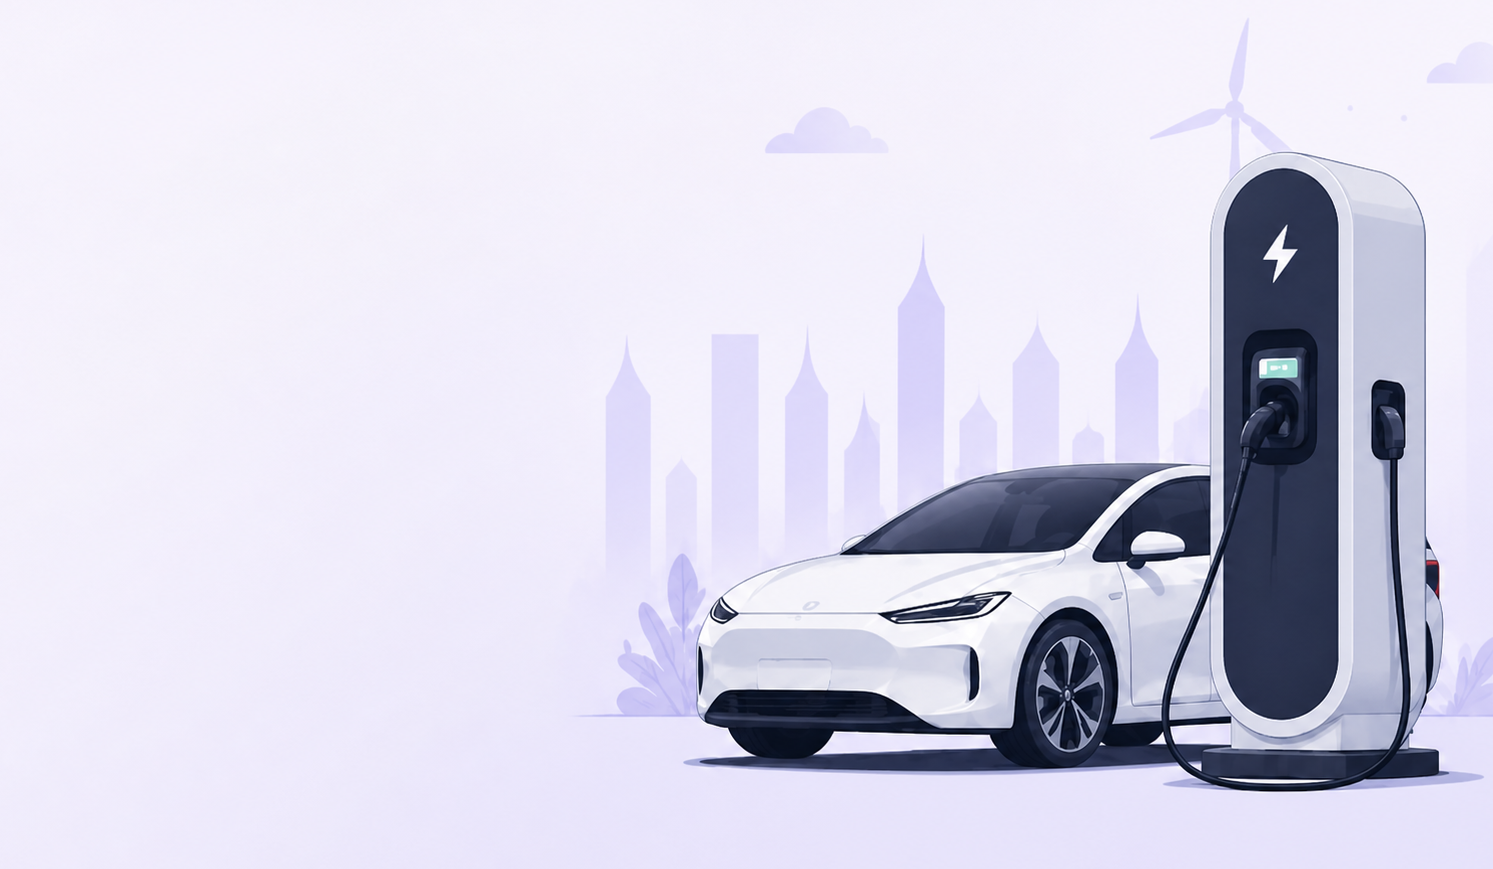
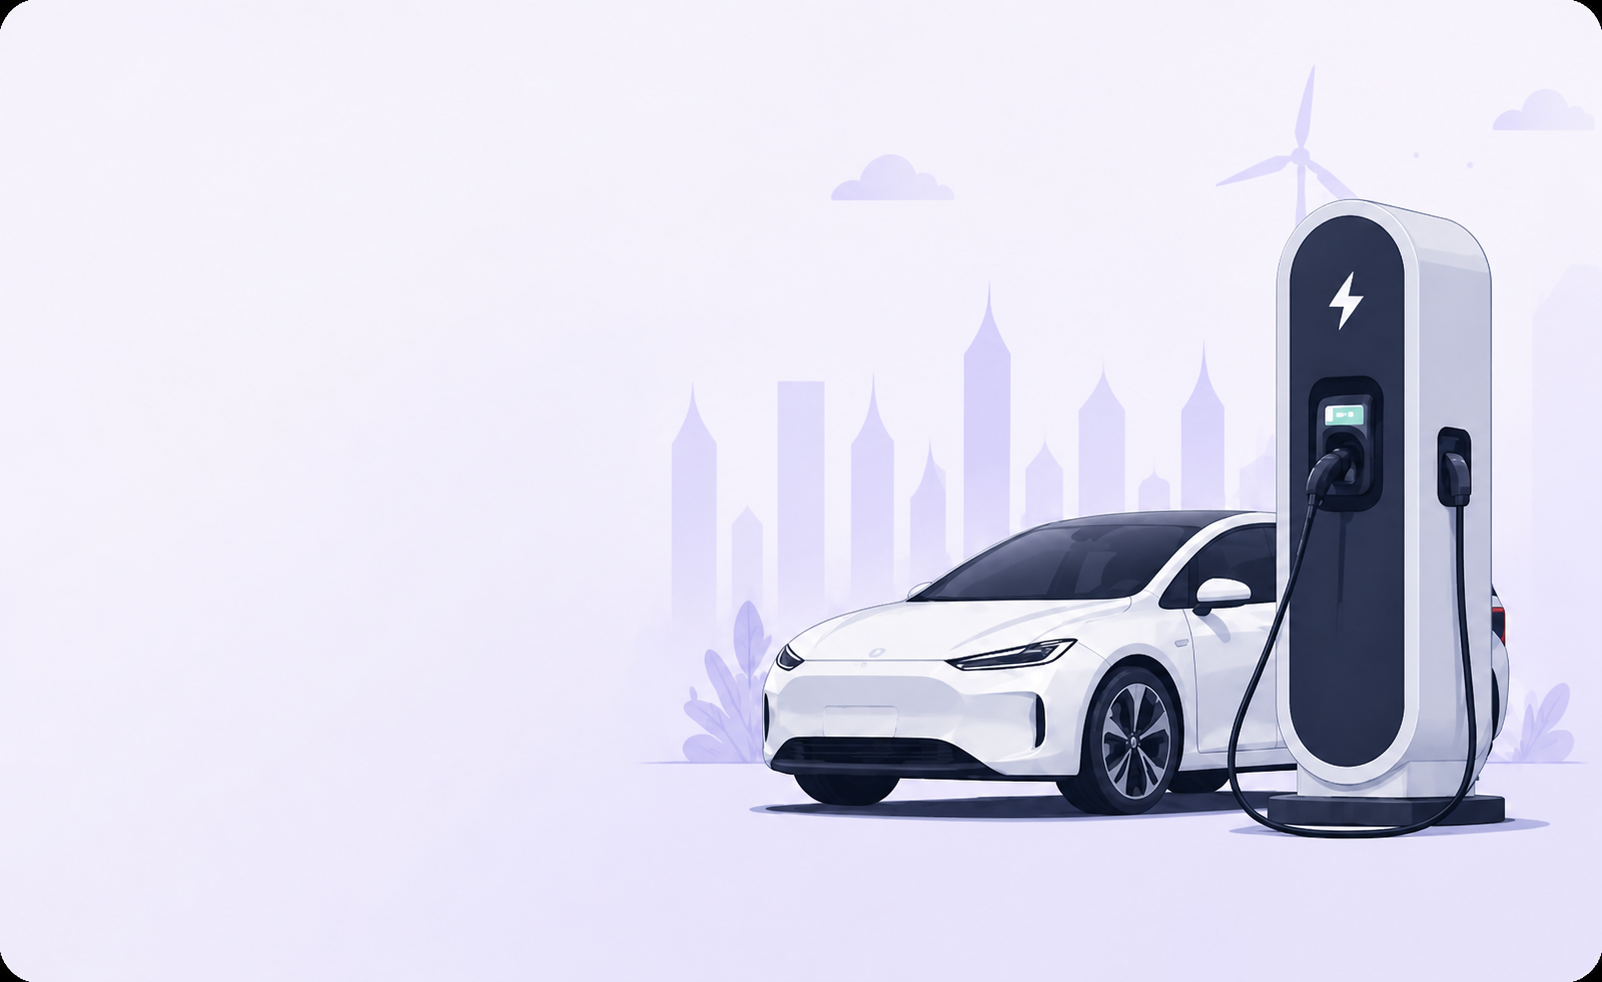
Pulling latest code

diff --git a/frontend/my-app/src/Pages/SlotsBooking.jsx b/frontend/my-app/src/Pages/SlotsBooking.jsx
@@ -1,0 +1,76 @@
+import React from 'react'
+import { Bell } from 'lucide-react';
+import CardHome from '../Components/CardHome';
+import Navbar from '../Components/Navbar';
+import { MoveRight } from 'lucide-react';
+import { ArrowRight } from 'lucide-react';
+
+const SlotsBooking = () => {
+    return (
+        <div>
+            <div className='flex justify-between items-center m-4 md:m-12 '>
+                <div className='text-xl font-medium'>PlugBook</div>
+                <Bell strokeWidth={1} />
+            </div>
+            <div>
+                <CardHome />
+            </div>
+            <div className='pb-10'>
+                <div className=" flex items-center justify-center border-[1px] border-gray-200 rounded-2xl mx-4 md:mx-12 lg:mx-14 mt-10 p-4">
+                    <div className="w-full max-w-md bg-white rounded-2xl shadow-lg p-6 space-y-6">
+
+                        {/* Select Date */}
+                        <div>
+                            <h2 className="text-sm font-semibold text-gray-700 mb-2">Select Date</h2>
+                            <div className="border rounded-lg px-4 py-3 flex items-center justify-between text-gray-500">
+                                <span>May 20, 2025</span>
+
+                            </div>
+                        </div>
+
+                        {/* Time */}
+                        <div className="flex items-center gap-3">
+                            <div className="flex-1 border rounded-lg px-3 py-2 text-gray-500">
+                                <p className="text-xs">From</p>
+                                <p className="text-sm">09:00 AM </p>
+                            </div>
+
+                            <span ><MoveRight /></span>
+
+                            <div className="flex-1 border rounded-lg px-3 py-2 text-gray-500">
+                                <p className="text-xs">To</p>
+                                <p className="text-sm">11:00 AM </p>
+                            </div>
+                        </div>
+
+
+                        <div>
+                            <div className="flex justify-between items-center mb-3">
+                                <h2 className="text-sm font-semibold text-gray-700">Select a Slot</h2>
+                                <div className="flex items-center gap-3 text-xs">
+                                    <span className="flex items-center gap-1 text-purple-500">
+                                        Available
+                                    </span>
+                                    <span className="flex items-center gap-1 text-gray-400">
+                                        Occupied
+                                    </span>
+                                </div>
+                            </div>
+
+
+
+                        </div>
+                        <div className='flex justify-center'>
+
+                        <button className=' font-light w-30 text-xs flex items-center justify-center gap-2 bg-black text-white py-2 px-3 rounded-3xl'>Add Details <ArrowRight strokeWidth={2} size={20} /> </button>
+</div>
+
+                    </div>
+                </div>
+            </div>
+            <Navbar />
+        </div>
+    )
+}
+
+export default SlotsBooking

diff --git a/frontend/my-app/src/Pages/Homepage.jsx b/frontend/my-app/src/Pages/Homepage.jsx
@@ -2,20 +2,33 @@ import React from 'react'
 import { Bell } from 'lucide-react';
 import CardHome from '../Components/CardHome';
 import IconSet from '../Components/IconSet';
+import Navbar from '../Components/Navbar';
+import { Percent } from 'lucide-react';
+import OfferCardSet from '../Components/OfferCardSet';
 
 const Homepage = () => {
   return (
-    <div className=''>
-      <div className='flex justify-between items-center m-4'>
+    <div className='relative '>
+      <div className='flex justify-between items-center m-4 md:m-12 '>
         <div className='text-xl font-medium'>PlugBook</div>
+
         <Bell strokeWidth={1} />
-       </div>
-       <CardHome/>
-       <IconSet/>
-       <CardHome/>
-       <CardHome/>
-       
-       
+      </div>
+      <CardHome />
+      <IconSet />
+      <div className=' flex items-center text-xl mx-4 font-medium  md:text-2xl md:mx-10 lg:text-3xl lg:mx-12 '>
+        <div className='hidden lg:block'><Percent size={32} strokeWidth={2} /> </div>
+        <div className='hidden md:block lg:hidden'><Percent size={26} strokeWidth={2} /> </div>
+        <div className='md:hidden'><Percent size={22} strokeWidth={2} /> </div>
+        <h1>Offers</h1>
+        </div>
+      <OfferCardSet />
+      <OfferCardSet />
+      
+
+      <Navbar />
+
+
     </div>
   )
 }

diff --git a/frontend/my-app/src/Components/CardHome.jsx b/frontend/my-app/src/Components/CardHome.jsx
@@ -3,8 +3,8 @@ import { ArrowRight } from 'lucide-react';
 
 const CardHome = () => {
   return (
-    <div className='mx-4 '>
-      <div className='bg-gray-100 border-gray-300 border-[1px] h-53 w-full mx-auto  flex  rounded-4xl relative overflow-hidden'>
+    <div className=' mx-4 mt-2 sm:mx-10 md:mx-12 lg:mx-14'>
+      <div className='bg-gray-100 border-gray-300 border-[1px]  h-53 w-full mx-auto  flex  rounded-4xl relative overflow-hidden sm:70 md:h-85'>
         <div className='absolute mx-4'>
         </div>
 
@@ -12,7 +12,7 @@ const CardHome = () => {
         <div className='w-full h-full overflow-hidden '>
           <img className=' absolute object-cover w-full h-full' src="public\img-car-home.png" alt="" />
         </div>
-        <div className='w-40 absolute m-6 text-xl font-medium flex flex-col gap-5 '>
+        <div className='w-40 absolute m-6 text-xl font-medium flex flex-col gap-5 md:text-3xl md:w-70 md:m-12 md:gap-7 lg:text-4xl lg:w-90 lg:m-16 lg:gap-10'>
           <h1>Book EV Slots
             <span className='text-purple-400'> Seamlessly,</span> Anytime, Anywhere</h1>
           <button className=' font-light w-30 text-xs flex items-center justify-center gap-2 bg-black text-white py-2 px-3 rounded-3xl'>Get Started <ArrowRight strokeWidth={1} size={18} /> </button>

diff --git a/frontend/my-app/src/Components/IconSet.jsx b/frontend/my-app/src/Components/IconSet.jsx
@@ -16,21 +16,29 @@ const IconSet = () => {
       id: 1,
       name: "Find Charger",
       icon:  <EvCharger size={32} strokeWidth={1} />,
+      lg:  <EvCharger size={40} strokeWidth={1} />,
+      def:"Locate chargers easily around you.",
     },
     {
       id: 2,
       name: "My Booking",
       icon: <Ticket size={32} strokeWidth={1} />,
+      lg: <Ticket size={40} strokeWidth={1} />,
+      def:"View and manage your booking."
     },
     {
       id: 3,
       name: "Payments",
       icon: <Wallet size={32} strokeWidth={1} />,
+      lg: <Wallet size={40} strokeWidth={1} />,
+      def:"Manage payments and invoices."
     },
     {
       id: 4,
       name: "History",
       icon: <History size={32} strokeWidth={1} />,
+      lg: <History size={44} strokeWidth={1} />,
+      def:"View your charging history."
     },
   ];
 
@@ -38,10 +46,10 @@ const IconSet = () => {
 
 
   return (
-    <div className='flex justify-around mx-4 my-3'>
+    <div className=' flex justify-around mx-4 my-3 sm:mx-7 md:mx-9'>
        {
         navItems.map(function(elem){
-          return <Icon id={elem.id} name={elem.name} icon={elem.icon}  />
+          return <Icon id={elem.id} name={elem.name} icon={elem.icon} def={elem.def} lg={elem.lg} />
 
 
         })

diff --git a/frontend/my-app/src/Components/Icon.jsx b/frontend/my-app/src/Components/Icon.jsx
@@ -10,8 +10,19 @@ const Icon = (prop) => {
     return (
         <div className='w-2/9'>
             <Link className='flex flex-col gap-1 justify-center items-center  px-2 py-3 border-[1px] border-zinc-200 rounded-2xl'>
-                {prop.icon}
-                <p className='text-[9px] font-medium'>{prop.name} </p>
+                <div className='flex flex-col items-center md:flex-row md:items-start gap-2 md:gap-4 md:py-4'>
+                    <div className='lg:hidden' >
+                        {prop.icon}
+                    </div>
+                    <div className='hidden lg:block'>
+                        {prop.lg}
+                    </div>
+                    <div className=''>
+                        <p className='text-[9px] font-medium md:text-[11px] md:font-medium lg:text-[17px] lg:font-medium'>{prop.name} </p>
+                        <p className='hidden md:block md:text-[8px] font-normal lg:text-[10px]'>{prop.def}</p>
+                    </div>
+                </div>
+
             </Link>
         </div>
     )

diff --git a/frontend/my-app/src/Components/Navbar.jsx b/frontend/my-app/src/Components/Navbar.jsx
@@ -7,15 +7,18 @@ import { User } from 'lucide-react';
 
 const Navbar = () => {
   return (
-    <div className='mt-5 mx-4 '>
-    <div className='flex justify-between items-center bg-gray-100 p-4 border-gray-300 border-[1px] rounded-3xl'>
-      <Link><House /></Link>
-      <Link><MapPin /></Link>
-      <Link><Bookmark /></Link>
-      <Link><User /></Link>
+    <>
+  <div className="fixed bottom-0 left-0 w-full bg-gray-100 border-t border-gray-300 shadow-[0_-4px_10px_rgba(0,0,0,0.1)] sm:hidden">
+      <div className="flex justify-around items-center py-3">
+        <Link ><House strokeWidth={1}/></Link>
+        <Link><MapPin strokeWidth={1}/></Link>
+        <Link><Bookmark strokeWidth={1}/></Link>
+        <Link><User strokeWidth={1}/></Link>
+      </div>
     </div>
-    </div>
+    </>
   )
 }
 
 export default Navbar
+

diff --git a/frontend/my-app/src/Components/OfferCards.jsx b/frontend/my-app/src/Components/OfferCards.jsx
@@ -1,0 +1,24 @@
+import React from 'react'
+
+const OfferCards = () => {
+    return (
+        <div className='bg-gray-100 border-gray-300 border-[1px] mt-4 h-53 w-full p-4 flex rounded-4xl relative overflow-hidden'>
+            <div className='absolute mx-4'>
+                <h1 className='text-xl'>
+                    Get  <span className='text-2xl font-medium'>20%</span> <br /> Metro Discount
+                </h1>
+                <p className='text-gray-500'>enjoy this offer for your first <br /> five trips.</p>
+                <div className='bg-gray-200 w-fit p-2 rounded-4xl mt-2 text-gray-800'>METRO20</div>
+            </div>
+            
+
+                <img className='h-full  object-contain' src="\src\assets\img1.png" alt="" />
+            
+
+
+
+        </div>
+    )
+}
+
+export default OfferCards

diff --git a/frontend/my-app/src/routes/AppRoutes.jsx b/frontend/my-app/src/routes/AppRoutes.jsx
@@ -3,6 +3,7 @@ import { Route, Router, Routes } from 'react-router-dom'
 import Homepage from '../Pages/Homepage'
 import Navbar from '../Components/Navbar'
 import LoginPage from '../Pages/LoginPage'
+import SlotsBooking from '../Pages/SlotsBooking'
 
 const AppRoutes = () => {
   return (
@@ -10,6 +11,7 @@ const AppRoutes = () => {
       <Routes>
         <Route path='/home' element={<Homepage/>}  />
         <Route path='/login' element={<LoginPage/>}  />
+        <Route path='/slots' element={<SlotsBooking/>}  />
       </Routes>
       
     

diff --git a/frontend/my-app/src/Components/OfferCardSet.jsx b/frontend/my-app/src/Components/OfferCardSet.jsx
@@ -1,0 +1,14 @@
+import React from 'react'
+import OfferCards from './OfferCards'
+
+const OfferCardSet = () => {
+  return (
+    <div className=' mx-4 flex flex-col sm:flex-row  sm:gap-5 md:mx-12'>
+        <OfferCards />
+        <OfferCards />
+        
+      </div>
+  )
+}
+
+export default OfferCardSet
